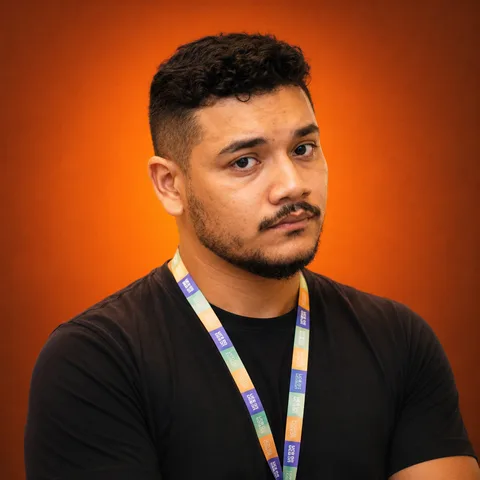
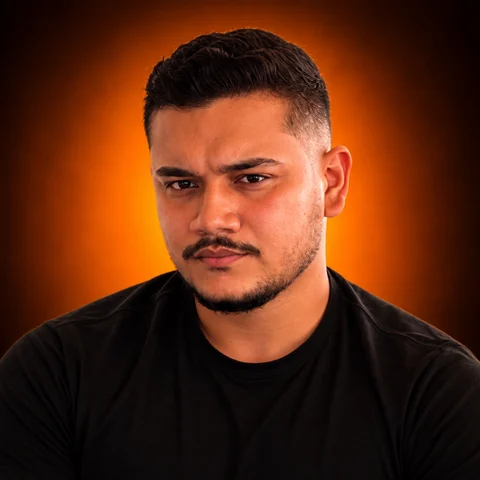
Endereço real e novas fotos do Jhon e do Augusto
Claude-Session: https://claude.ai/code/session_01UpVpbJLeFV4A75xUa8QdwD

diff --git a/contato.html b/contato.html
@@ -51,10 +51,9 @@
         <div class="card cinfo__item cinfo__item--wide" data-spot data-reveal>
           <span class="ic"><svg viewBox="0 0 24 24" fill="none" stroke="currentColor" stroke-width="1.75" stroke-linecap="round" stroke-linejoin="round" aria-hidden="true"><rect x="3" y="5" width="18" height="14" rx="3"/><path d="m4 7 8 6 8-6"/></svg></span><div><span class="mono">E-mail comercial</span><b data-todo="email">contato@lamparinahub.com</b></div>
         </div>
-        <!-- TODO: endereço físico completo -->
-        <div class="card cinfo__item cinfo__item--wide" data-spot data-reveal>
+                <div class="card cinfo__item cinfo__item--wide" data-spot data-reveal>
           <span class="ic"><svg viewBox="0 0 24 24" fill="none" stroke="currentColor" stroke-width="1.75" stroke-linecap="round" stroke-linejoin="round" aria-hidden="true"><path d="M7 3h7l5 5v13H7z"/><path d="M14 3v5h5M10 13h6M10 17h6"/></svg></span>
-          <div><span class="mono">Endereço</span><b data-todo="endereco">Rua —, nº —</b></div>
+          <div><span class="mono">Endereço</span><b>R. Dep. Icoaraci Nunes, 5480 - 1º Piso - Caranazal, Santarém - PA, 68030-660</b></div>
           <div><span class="mono">CNPJ</span><b>57.928.216/0001-39</b></div>
         </div>
     </div>
@@ -98,8 +97,7 @@
     <div class="footer__grid">
       <div class="footer__brand">
         <img src="assets/img/logo.webp" alt="Agência Lamparina" width="900" height="346" loading="lazy">
-        <!-- TODO: endereço completo -->
-        <p>Norte do País<br>CNPJ 57.928.216/0001-39</p>
+                <p>R. Dep. Icoaraci Nunes, 5480 - 1º Piso - Caranazal, Santarém - PA, 68030-660<br>CNPJ 57.928.216/0001-39</p>
         <img class="kommo" src="assets/img/kommo-partner.webp" alt="Kommo Partner" width="360" height="156" loading="lazy">
       </div>
       <div>

diff --git a/src/pages/contato.html b/src/pages/contato.html
@@ -21,10 +21,9 @@
         <div class="card cinfo__item cinfo__item--wide" data-spot data-reveal>
           <span class="ic">{{icon:mail}}</span><div><span class="mono">E-mail comercial</span><b data-todo="email">contato@lamparinahub.com</b></div>
         </div>
-        <!-- TODO: endereço físico completo -->
-        <div class="card cinfo__item cinfo__item--wide" data-spot data-reveal>
+                <div class="card cinfo__item cinfo__item--wide" data-spot data-reveal>
           <span class="ic">{{icon:doc}}</span>
-          <div><span class="mono">Endereço</span><b data-todo="endereco">Rua —, nº —</b></div>
+          <div><span class="mono">Endereço</span><b>R. Dep. Icoaraci Nunes, 5480 - 1º Piso - Caranazal, Santarém - PA, 68030-660</b></div>
           <div><span class="mono">CNPJ</span><b>57.928.216/0001-39</b></div>
         </div>
     </div>

diff --git a/index.html b/index.html
@@ -211,8 +211,7 @@
     <div class="footer__grid">
       <div class="footer__brand">
         <img src="assets/img/logo.webp" alt="Agência Lamparina" width="900" height="346" loading="lazy">
-        <!-- TODO: endereço completo -->
-        <p>Norte do País<br>CNPJ 57.928.216/0001-39</p>
+                <p>R. Dep. Icoaraci Nunes, 5480 - 1º Piso - Caranazal, Santarém - PA, 68030-660<br>CNPJ 57.928.216/0001-39</p>
         <img class="kommo" src="assets/img/kommo-partner.webp" alt="Kommo Partner" width="360" height="156" loading="lazy">
       </div>
       <div>

diff --git a/o-que-fazemos.html b/o-que-fazemos.html
@@ -135,8 +135,7 @@
     <div class="footer__grid">
       <div class="footer__brand">
         <img src="assets/img/logo.webp" alt="Agência Lamparina" width="900" height="346" loading="lazy">
-        <!-- TODO: endereço completo -->
-        <p>Norte do País<br>CNPJ 57.928.216/0001-39</p>
+                <p>R. Dep. Icoaraci Nunes, 5480 - 1º Piso - Caranazal, Santarém - PA, 68030-660<br>CNPJ 57.928.216/0001-39</p>
         <img class="kommo" src="assets/img/kommo-partner.webp" alt="Kommo Partner" width="360" height="156" loading="lazy">
       </div>
       <div>

diff --git a/quem-somos.html b/quem-somos.html
@@ -117,8 +117,7 @@
     <div class="footer__grid">
       <div class="footer__brand">
         <img src="assets/img/logo.webp" alt="Agência Lamparina" width="900" height="346" loading="lazy">
-        <!-- TODO: endereço completo -->
-        <p>Norte do País<br>CNPJ 57.928.216/0001-39</p>
+                <p>R. Dep. Icoaraci Nunes, 5480 - 1º Piso - Caranazal, Santarém - PA, 68030-660<br>CNPJ 57.928.216/0001-39</p>
         <img class="kommo" src="assets/img/kommo-partner.webp" alt="Kommo Partner" width="360" height="156" loading="lazy">
       </div>
       <div>

diff --git a/resultados.html b/resultados.html
@@ -75,8 +75,7 @@
     <div class="footer__grid">
       <div class="footer__brand">
         <img src="assets/img/logo.webp" alt="Agência Lamparina" width="900" height="346" loading="lazy">
-        <!-- TODO: endereço completo -->
-        <p>Norte do País<br>CNPJ 57.928.216/0001-39</p>
+                <p>R. Dep. Icoaraci Nunes, 5480 - 1º Piso - Caranazal, Santarém - PA, 68030-660<br>CNPJ 57.928.216/0001-39</p>
         <img class="kommo" src="assets/img/kommo-partner.webp" alt="Kommo Partner" width="360" height="156" loading="lazy">
       </div>
       <div>

diff --git a/src/build.py b/src/build.py
@@ -75,8 +75,7 @@ def footer():
     <div class="footer__grid">
       <div class="footer__brand">
         <img src="assets/img/logo.webp" alt="Agência Lamparina" width="900" height="346" loading="lazy">
-        <!-- TODO: endereço completo -->
-        <p>Norte do País<br>CNPJ 57.928.216/0001-39</p>
+                <p>R. Dep. Icoaraci Nunes, 5480 - 1º Piso - Caranazal, Santarém - PA, 68030-660<br>CNPJ 57.928.216/0001-39</p>
         <img class="kommo" src="assets/img/kommo-partner.webp" alt="Kommo Partner" width="360" height="156" loading="lazy">
       </div>
       <div>

diff --git a/README.md b/README.md
@@ -10,7 +10,7 @@ HTML/CSS/JS estático, 5 páginas. Sem build obrigatório.
 Bibliotecas via CDN: GSAP 3.12.5 + ScrollTrigger (cdnjs), Lenis 1.1.13 (jsDelivr). Fontes: Host Grotesk, Inter, Geist Mono (Google Fonts).
 
 ## Pendências (procure por `TODO` / `data-todo`)
-- Endereço completo e e-mail comercial (rodapé e Contato) — hoje são placeholders
+- E-mail comercial (Contato) — hoje é placeholder
 - Função de cada pessoa do time (Quem Somos)
 - Link da Política de Privacidade
 - Cases da página Resultados: preencher o array `CASES` em `assets/js/main.js` (o filtro por camada já funciona)
